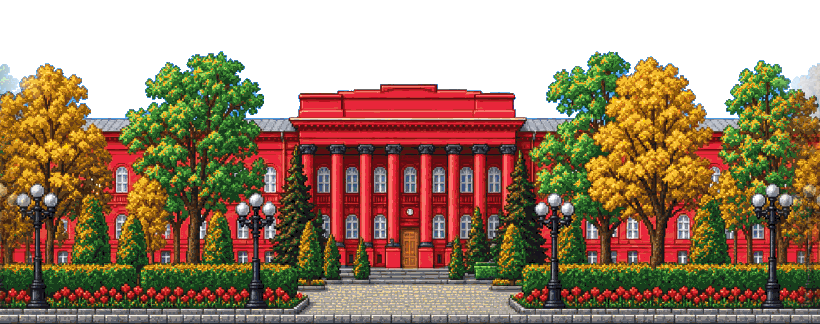
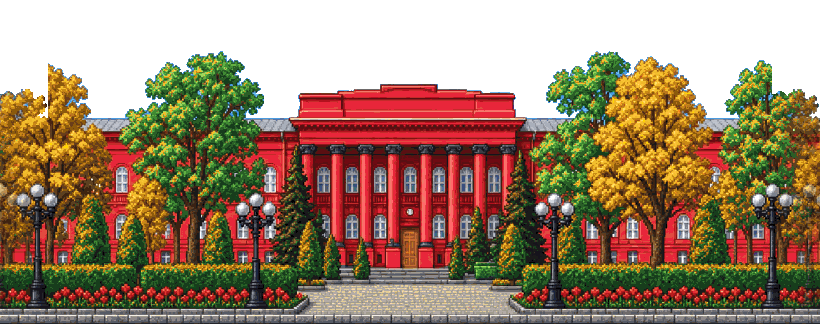
1-1 background: remove seam ghost roofs, move the landmarks right
The seamless cross-fade of the parallax strips left half-transparent copies of roofs and
treetops over the sky (a ghost dormer between two cream facades). make_seamless and
fix_far_l11 now keep binary alpha; the 1-1 layers are cleaned. The skyline landmark set
(bell tower, cathedral, flag, Motherland monument) moves 130 px to the right.

Changed region(s): [[0.9146, 0.1852, 1.0, 0.3704], [0.0, 0.1852, 0.061, 0.3704]]

diff --git a/tools/make_parallax.py b/tools/make_parallax.py
@@ -44,6 +44,11 @@ def make_seamless(img: Image.Image, blend_px: int = 48) -> Image.Image:
         rolled[:, xl] = left_src * (1 - t * 0.5) + right_src * (t * 0.5)
         rolled[:, xr] = right_src * (1 - (1 - t) * 0.5) + left_src * ((1 - t) * 0.5)
     out = np.roll(rolled, -(w // 2), axis=1)
+    # the cross-fade leaves half-transparent "ghost" copies of roofs and treetops over the sky:
+    # pixel art has binary alpha, so anything not fully opaque at the seam is sky
+    seam = np.zeros(w, bool); seam[:blend_px] = True; seam[w - blend_px:] = True
+    ghost = (out[..., 3] < 255) & seam[None, :]
+    out[ghost] = 0
     return Image.fromarray(np.clip(out, 0, 255).astype(np.uint8), "RGBA")
 
 

diff --git a/tools/fix_far_l11.py b/tools/fix_far_l11.py
@@ -43,7 +43,7 @@ PATCH_B = [
     (280, 50, 806, 270),     # flag
     (336, 80, 864, 280),     # statue
 ]
-ROLL = 200
+ROLL = 330          # landmark set further right: the bell tower and cathedral clear the grey building
 
 
 def patch(a: np.ndarray, ops) -> np.ndarray:
@@ -63,6 +63,7 @@ def main():
     a = patch(src, PATCH_A)
     b = patch(a, PATCH_B)
     layer = np.roll(np.concatenate([a, b], axis=1), ROLL, axis=1)
+    layer[layer[..., 3] < 255] = 0      # no half-transparent seam ghosts (binary alpha)
     Image.fromarray(layer, "RGBA").save(OUT)
     print(f"far.png -> {layer.shape[1]}x{layer.shape[0]} (one landmark set at x {28 + ROLL}-{410 + ROLL})")
 
